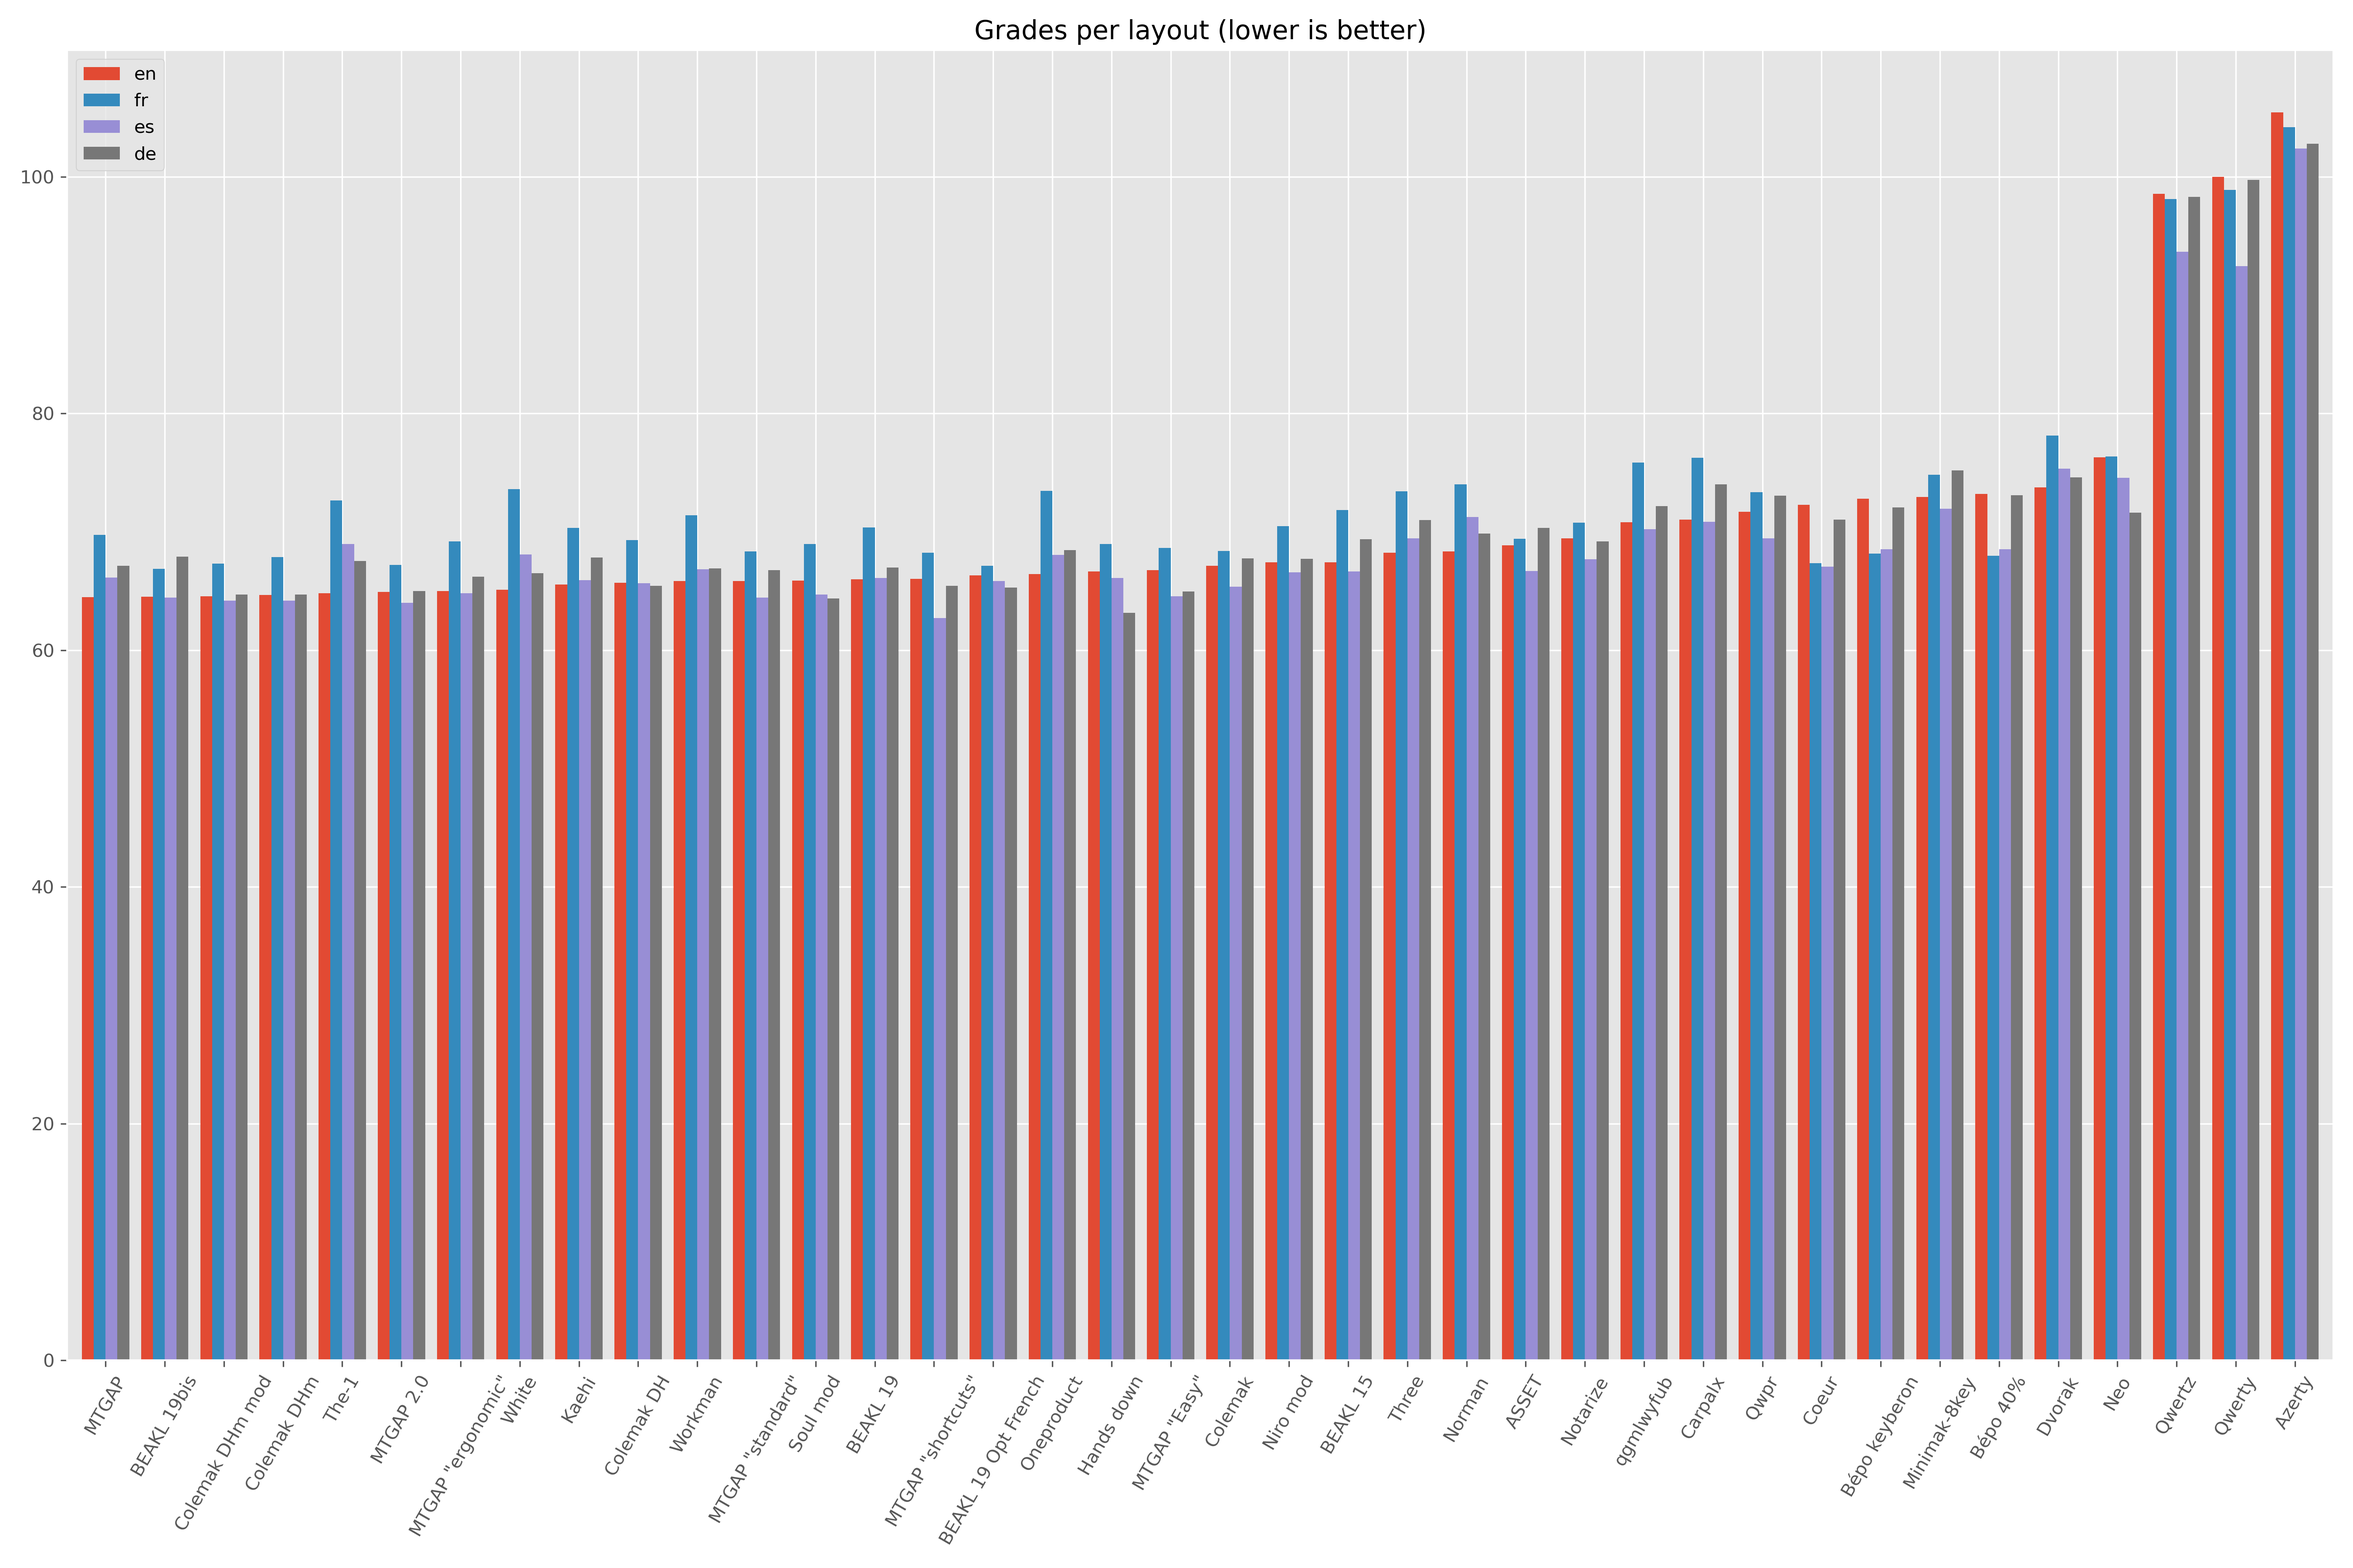
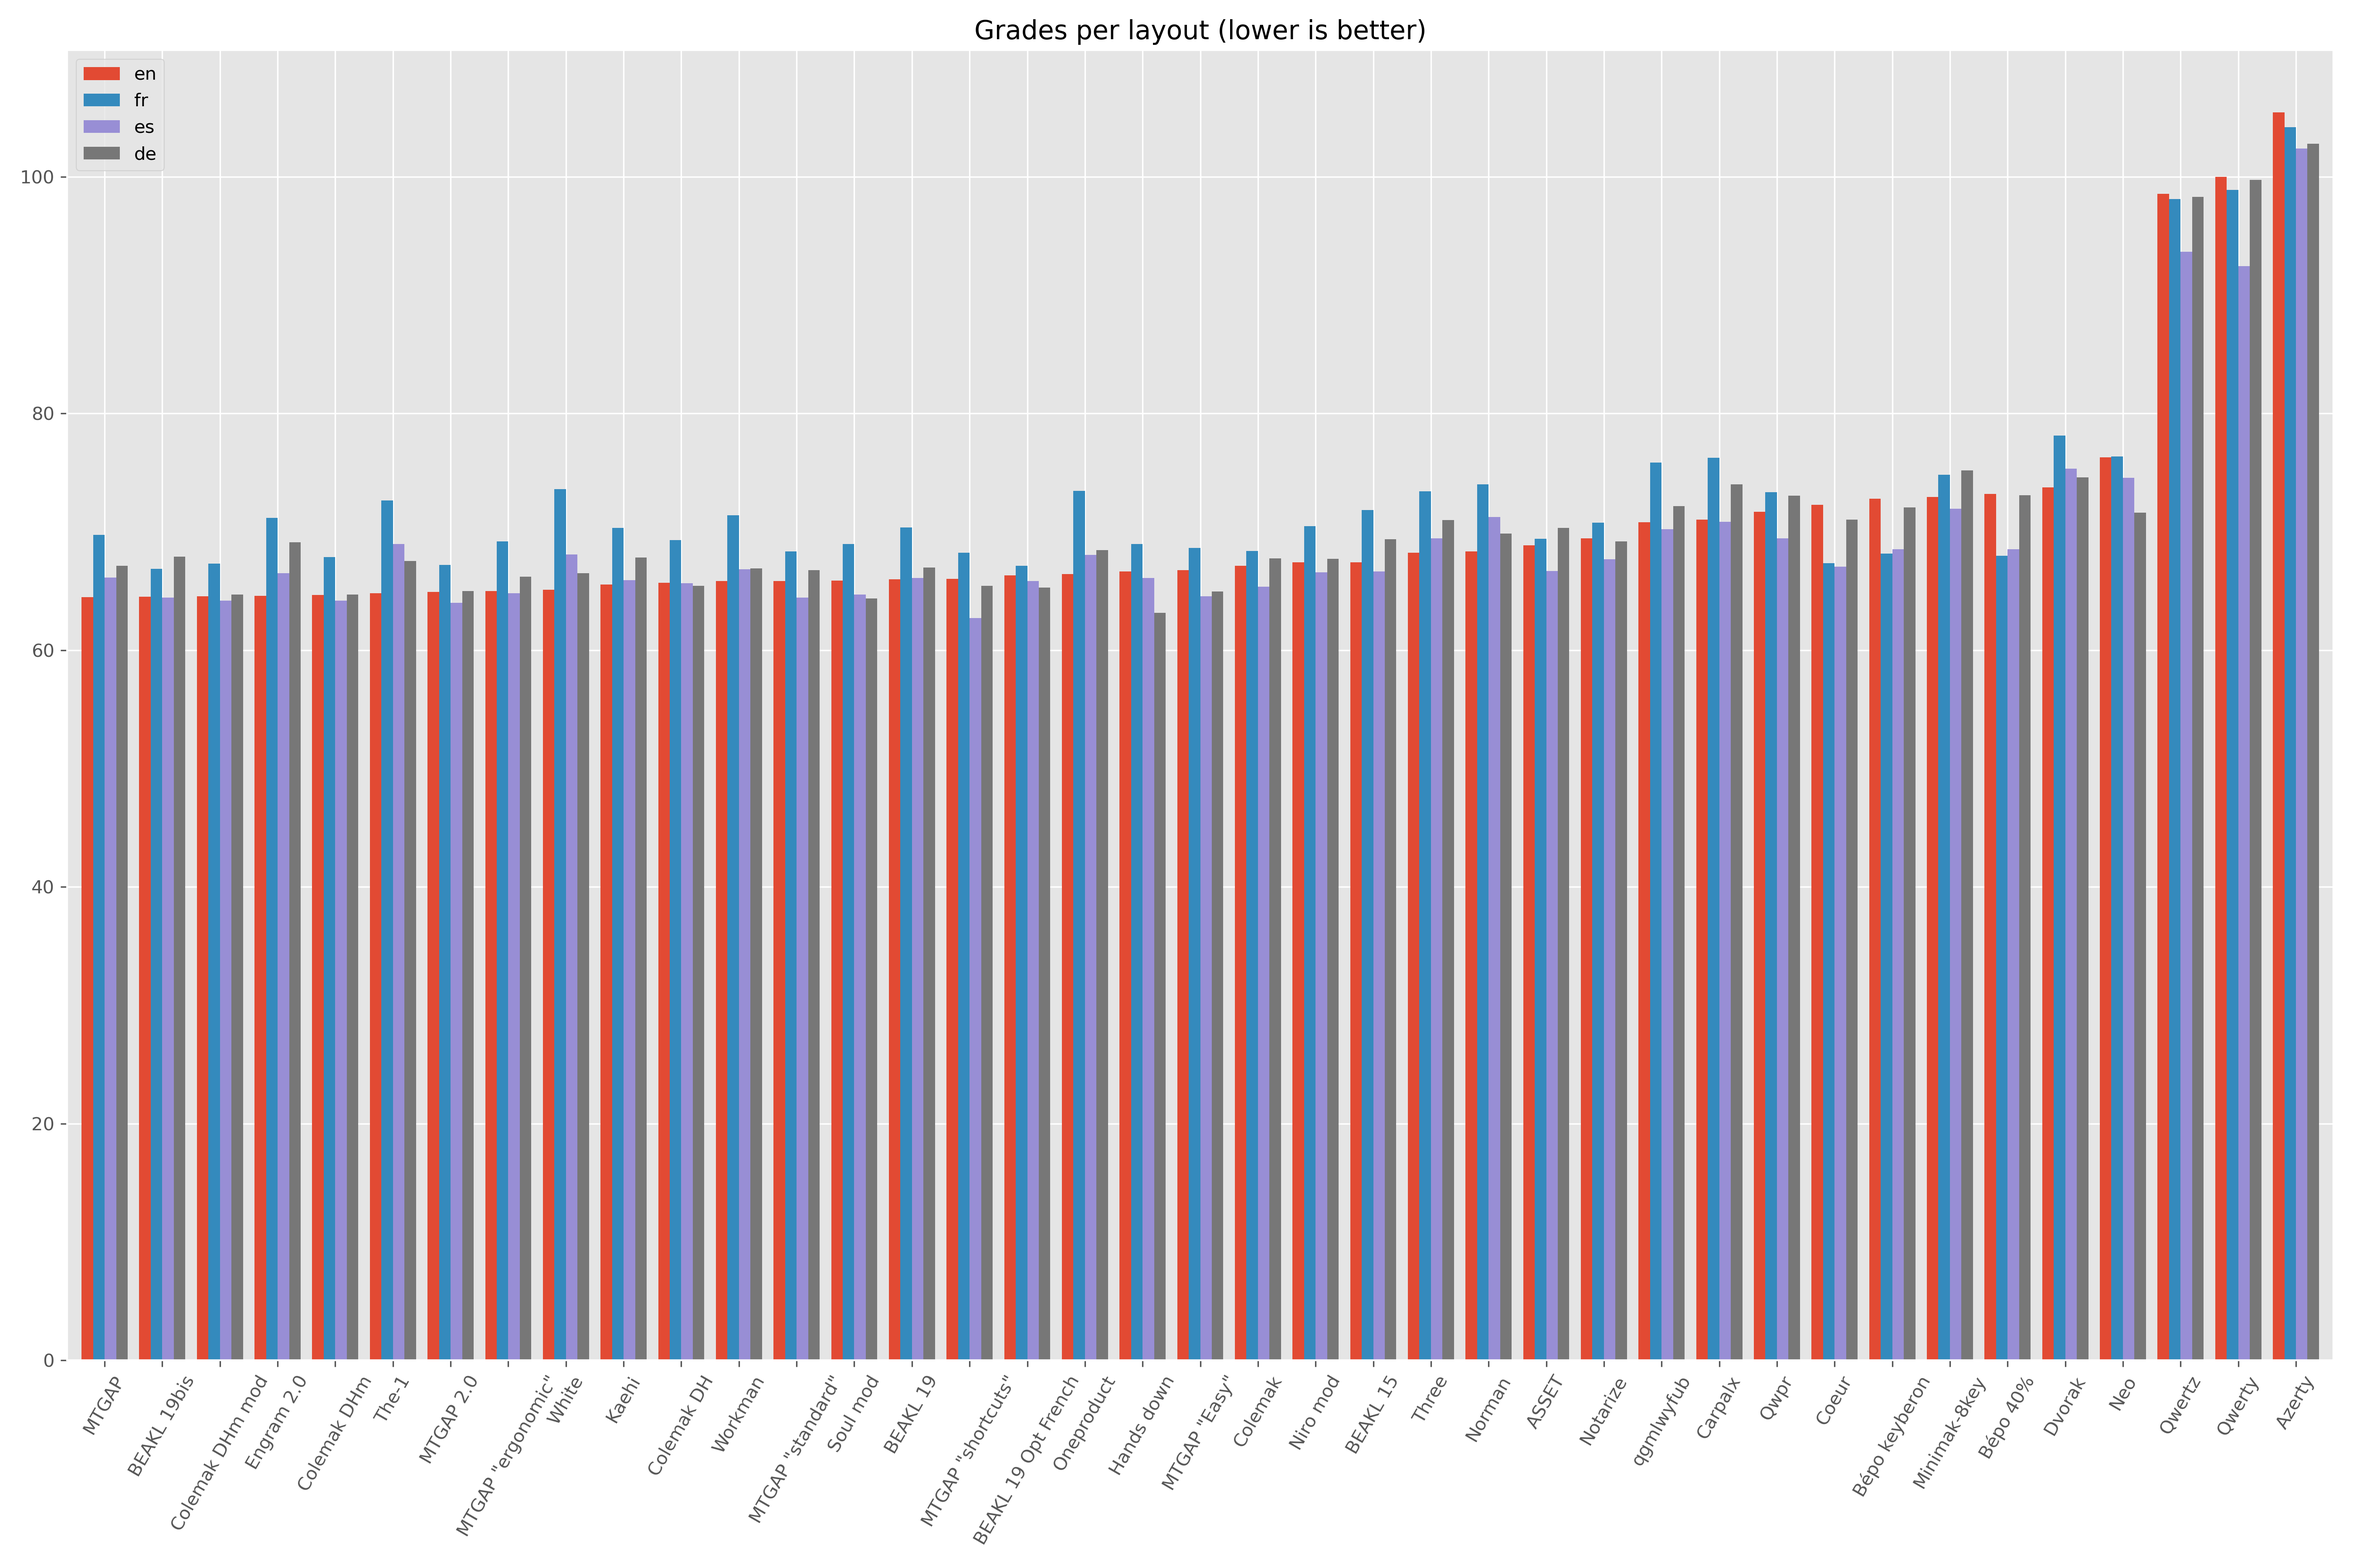
ran results with Engram 2.0

diff --git a/README.md b/README.md
@@ -221,6 +221,7 @@ Here is the complete results list. The layouts can be seen in `config.txt`.
 | [MTGAP](https://mathematicalmulticore.wordpress.com/the-keyboard-layout-project/)                                                             |   64.48 |         63.17 |  69.73 |        69.20 |   66.14 |  67.15 |
 | [BEAKL 19bis](https://www.reddit.com/r/ErgoDoxEZ/comments/gsvpug/layout_of_the_month_beakl_15/ftcan68/?context=3)                             |   64.51 |         63.47 |  66.87 |        65.81 |   64.45 |  67.92 |
 | Colemak DHm mod                                                                                                                               |   64.54 |         64.18 |  67.32 |        66.75 |   64.18 |  64.70 |
+| [Engram 2.0](https://engram.dev/)                                                                                                             |   64.59 |         63.32 |  71.17 |        70.28 |   66.52 |  69.11 |
 | [Colemak DHm](https://colemakmods.github.io/mod-dh/keyboards.html)                                                                            |   64.66 |         64.31 |  67.88 |        67.21 |   64.18 |  64.70 |
 | [The-1](https://docs.google.com/document/d/1yiCnIi1oagV1D8ZouMt-TRFRG8d6AfSBIwQkBvSflvY/edit)                                                 |   64.80 |         63.20 |  72.64 |        71.75 |   68.97 |  67.54 |
 | [MTGAP 2.0](https://mathematicalmulticore.wordpress.com/2010/06/21/mtgaps-keyboard-layout-2-0/)                                               |   64.91 |         64.44 |  67.21 |        65.77 |   64.01 |  64.98 |
@@ -265,7 +266,7 @@ All the alternative layouts perform very significantly better than the tradition
 
 ![results](layout_evaluation/results.png "Grades per layout")
 
-The options that perform the best are some Colemak variants like DHm, the obscure [BEAKL 19bis](https://www.reddit.com/r/ErgoDoxEZ/comments/gsvpug/layout_of_the_month_beakl_15/ftcan68/?context=3), as well as the layouts generated by [Mathematical multicore](https://mathematicalmulticore.wordpress.com/) (MTGAP). Colemak DHm (below) gives very good results without compromising any of the 4 languages, which makes sense as it stems from user feedback on ergonomic keyboards.
+The options that perform the best are some Colemak variants like DHm (image below), the obscure [BEAKL 19bis](https://www.reddit.com/r/ErgoDoxEZ/comments/gsvpug/layout_of_the_month_beakl_15/ftcan68/?context=3), the [Engram](https://engram.dev/), as well as the layouts generated by [Mathematical multicore](https://mathematicalmulticore.wordpress.com/) (MTGAP). 
 
 ![Colemak DHm](images/ColemakDHm.png "Colemak DHm layout")
 
